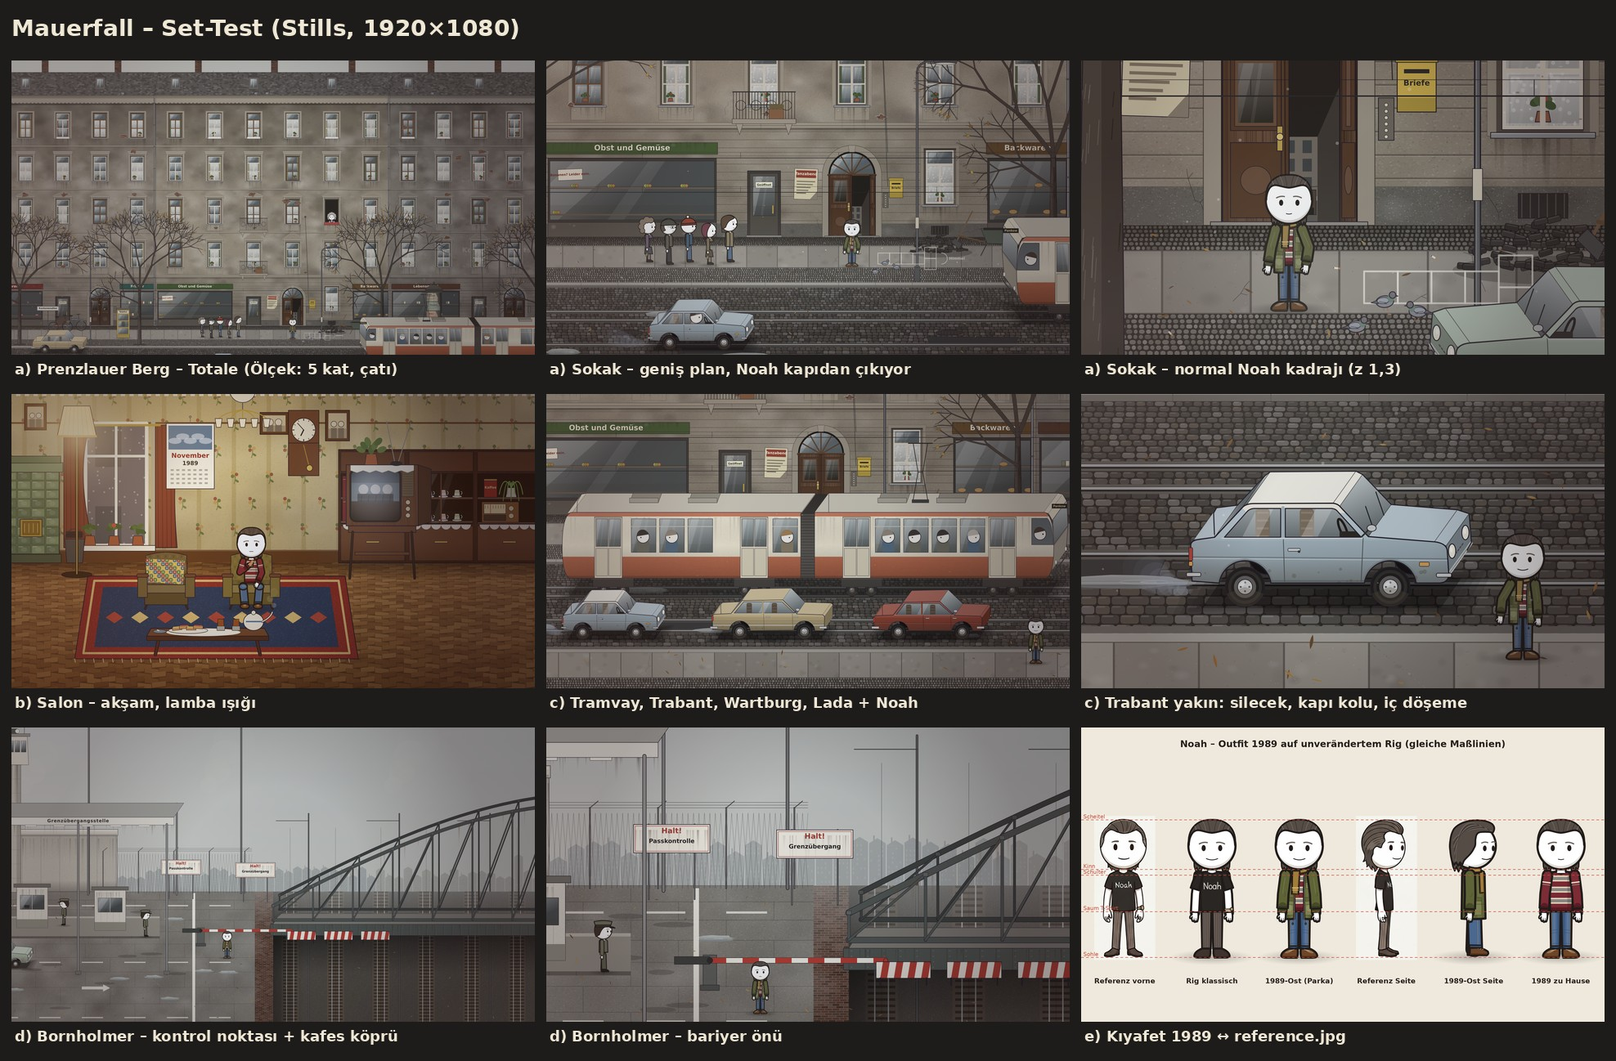
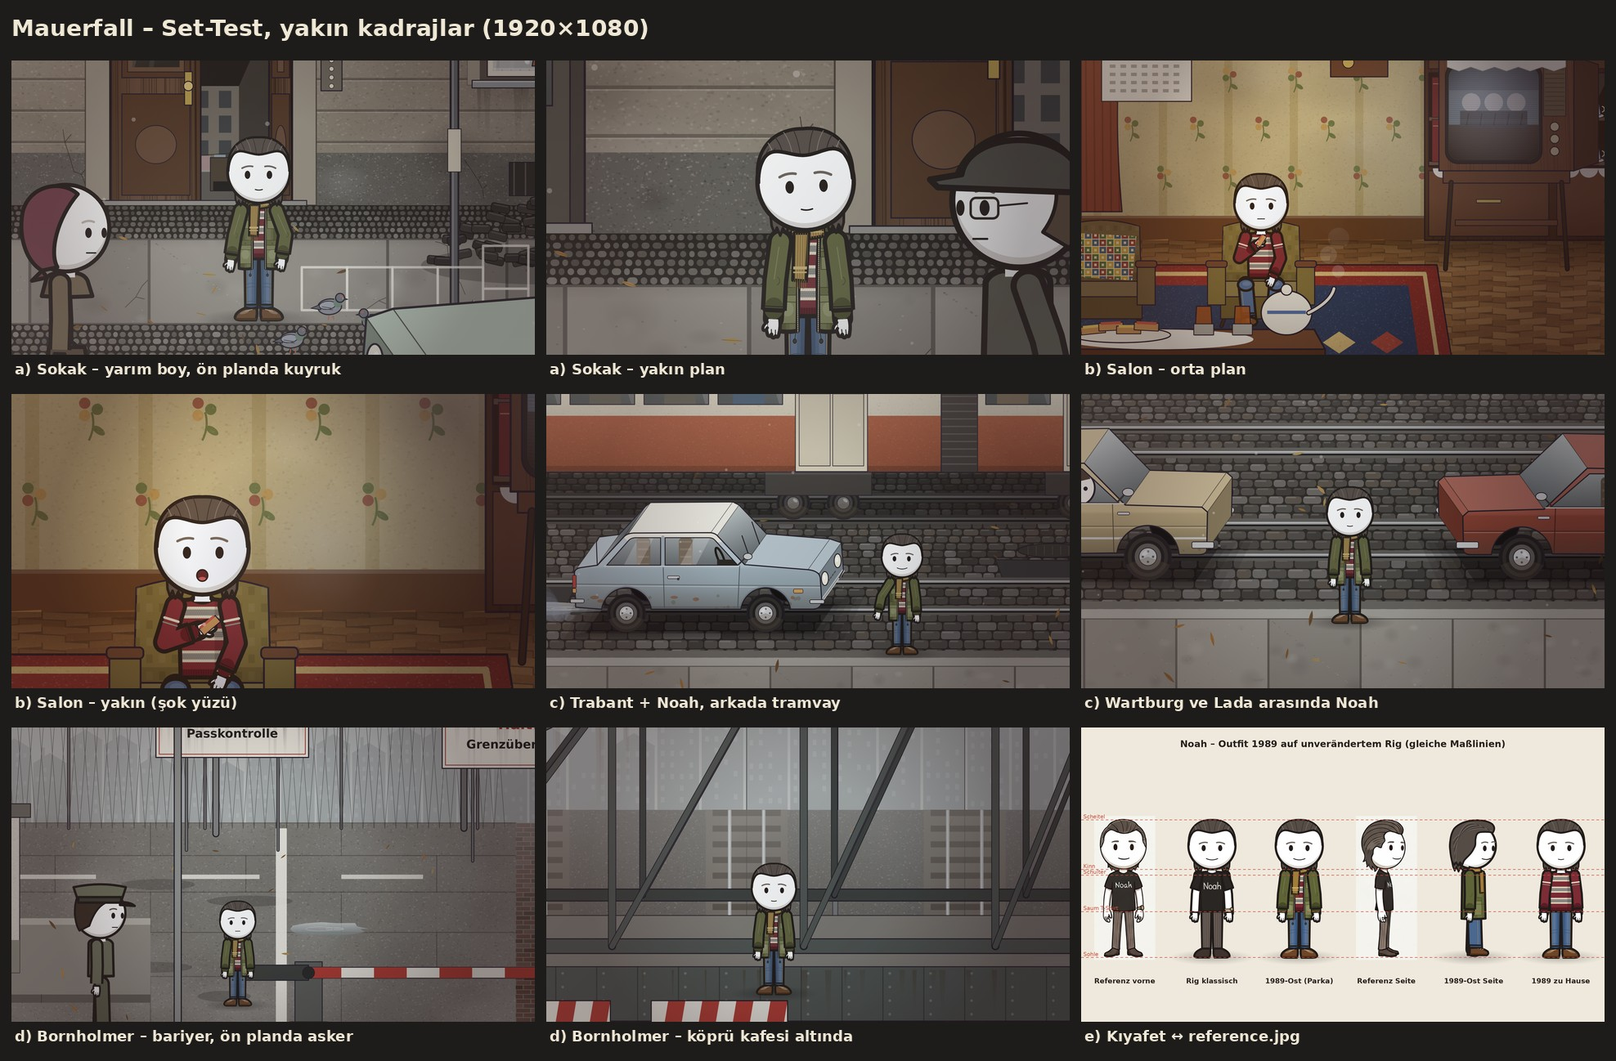
Mauerfall set test: closer framings, near-layer foreground occluders
Claude-Session: https://claude.ai/code/session_01MkQW4n55EtGz9x1MS3QuRe

diff --git a/films/mauerfall-set/film.html b/films/mauerfall-set/film.html
@@ -1796,6 +1796,9 @@ function bareTree(c, x, y, o = {}) {
   br(x, y - h, -Math.PI / 2 - .55, h * .45, tw * .55, 5); br(x, y - h, -Math.PI / 2 + .5, h * .48, tw * .55, 5); br(x, y - h * .92, -Math.PI / 2 + .05, h * .5, tw * .5, 5);
   if (o.low !== false) br(x, y - h * .75, -Math.PI / 2 - 1.1, h * .3, tw * .32, 3);
 }
+// NEAR LAYER: objects close to the camera — pan factor p (> 1 moves faster) and drawn sc times bigger.
+// Their ground line (y = 0 inside fn) sits on screen where world line groundY is. Good for cropped foreground occluders.
+function nearLayer(c, cam, p, sc, groundY, fn) { layerZ(c, cam, p, c => { const bx = cam.x * p, by = baseZ(cam, groundY, p); c.translate(bx, by); c.scale(sc, sc); c.translate(-bx, 0); fn(c); }); }
 
 // ---- mauerfall-lib/noah89.js ----
 // NOAH 1989 outfits on top of the unchanged rig (noah.js): head, hair, face, skeleton and limb lengths are NOT touched.
@@ -3278,90 +3281,84 @@ function tvPress(c, w, h, t) {
   c.fillStyle = 'rgba(255,255,255,.08)'; c.fillRect(0, (t * 40) % h, w, 10);
 }
 const sandwich = c => { c.save(); c.rotate(1.2); c.beginPath(); c.rect(-60, -30, 120, 46); fs(c, '#c9925a', 6); c.fillStyle = '#c9564a'; c.fillRect(-52, -38, 104, 14); circle(c, -20, -32, 10); c.fillStyle = '#e8a0a0'; c.fill(); c.restore(); };
+const NOAH_STREET = (c, x, y, o = {}) => { softShadow(c, x, y, 130, .4); drawNoah89(c, Object.assign({ x, y, k: .25, ink: 1.8 }, o)); };
+const GUARD = { hat: 'border', hatCol: '#6b7058', coat: '#6b7058', type: 'uniform', pants: '#5a5e4a', shoes: '#1e1c1a', hair: 'short' };
+function closeStreet(cam, t, o) {
+  const S = streetShot(cam, t, o);
+  S.screen = [c => { if (o.near) nearLayer(c, cam, o.near.p || 1.3, o.near.sc || 1.6, o.near.ground || 300, cc => o.near.fn(cc, t)); }, c => ostLight(c, cam, t, o)];
+  return S;
+}
 defineFilm({ shots: [
-  { name: 'a-street-wide', dur: 1, f(lt, T, t) {
-    return streetShot({ x: -250, y: -520, z: .45 }, 2.3, { doorOpen: .9,
-      noah: c => { softShadow(c, 108, -40, 130, .4); drawNoah89(c, { x: 108, y: -40, k: .25, ink: 1.8, arms: { l: { a: .25, b: -.1 }, r: { a: .35, b: -.5 } }, expr: { browUp: .5, look: -.6, mouth: 'soft' } }); },
-      vehicles: c => { trabi(c, -1150, { y: 640, col: '#a8bfcc', s: 1, moving: true, t: 2.3, driver: true }); tram(c, 3500, { y: 420, s: -1, t: 2.3, dest: 'Pankow', people: true }); },
-    });
+  // a) street — medium-full shot: Noah steps out of the open gate, queue woman cropped in the foreground, parked car edge
+  { name: 'a1-street-ms', dur: 1, f(lt, T, t) {
+    const cam = { x: 260, y: -275, z: 1.75 };
+    return closeStreet(cam, 2.3, { doorOpen: .9, noQueue: true,
+      noah: c => NOAH_STREET(c, 230, -40, { arms: { l: { a: .25, b: -.1 }, r: { a: .35, b: -.5 } }, expr: { browUp: .5, look: -.5, mouth: 'soft' } }),
+      near: { p: 1.3, sc: 1.55, ground: 210, fn: (c, t) => { drawFolkSide(c, Object.assign({ x: 60, y: 0, s: 1, expr: { mouth: 'soft', look: .2 } }, QUEUE[3])); trabi(c, 920, { y: 120, col: '#b3cdb6', s: -1, dirt: true, rust: true }); } } });
   } },
-  { name: 'a3-street-establishing', dur: 1, f(lt, T, t) {
-    return streetShot({ x: -250, y: -2450, z: .2 }, 2.3, { doorOpen: .9,
-      noah: c => { softShadow(c, 108, -40, 130, .4); drawNoah89(c, { x: 108, y: -40, k: .25, ink: 1.8, expr: { browUp: .5, mouth: 'soft' } }); },
-      vehicles: c => { trabi(c, -1150, { y: 640, col: '#a8bfcc', s: 1, moving: true, t: 2.3, driver: true }); wartburg(c, -4200, { y: 220, col: '#c4ad78' }); trabi(c, 3300, { y: 220, col: '#b3cdb6', s: -1 }); tram(c, 3500, { y: 420, s: -1, t: 2.3, dest: 'Pankow', people: true }); },
-    });
+  // a) street — medium close-up: curiosity, shop window + poster behind
+  { name: 'a2-street-mcu', dur: 1, f(lt, T, t) {
+    const cam = { x: -170, y: -315, z: 2.7 };
+    return closeStreet(cam, 2.6, { doorOpen: .9, noQueue: true,
+      noah: c => NOAH_STREET(c, -170, -40, { expr: { browUp: .6, look: .7, mouth: 'soft' }, tilt: -.05 }),
+      near: { p: 1.25, sc: 1.4, ground: 120, fn: (c, t) => { drawFolkSide(c, Object.assign({ x: -10, y: 0, s: -1, walk: 1.1, expr: { mouth: 'flat' } }, QUEUE[1])); } } });
   } },
-  { name: 'a2-street-noah', dur: 1, f(lt, T, t) {
-    return streetShot({ x: 260, y: -330, z: 1.3 }, 2.6, { doorOpen: .9, front: { p: 1.35, base: 250, trees: [-330], car: { x: 1060, col: '#b3cdb6', s: -1 } },
-      noah: c => { softShadow(c, 108, -40, 130, .4); drawNoah89(c, { x: 108, y: -40, k: .25, ink: 1.8, arms: { l: { a: .25, b: -.1 }, r: { a: .35, b: -.5 } }, expr: { browUp: .5, look: .6, mouth: 'soft' } }); },
-    });
-  } },
-  { name: 'b-salon', dur: 1, f(lt, T, t) {
-    const cam = { x: 260, y: -330, z: .8 };
-    return { set: (c, cm, tt) => ostFlat(c, cm, tt, { tod: 'evening' }), cam, vignette: .35,
+  // b) living room — Noah in the armchair, TV right, coffee table big in the foreground
+  { name: 'b1-salon-ms', dur: 1, f(lt, T, t) {
+    const cam = { x: 360, y: -310, z: 1.5 };
+    return { set: (c, cm, tt) => ostFlat(c, cm, tt, { tod: 'evening' }), cam, vignette: .4,
       behind: [c => {
         flatProps(c, 3.2, { tvImg: tvPress });
         sessel(c, -230, -20, { col: '#6a5a3a', part: 'back', blanket: true }); sessel(c, -230, -20, { col: '#6a5a3a', part: 'front' });
-        sessel(c, 160, -20, { col: '#7a6a3a', part: 'back' });
-        softShadow(c, 160, -20, 160, .35);
+        sessel(c, 160, -20, { col: '#7a6a3a', part: 'back' }); softShadow(c, 160, -20, 160, .35);
         drawNoah89(c, { x: 160, y: -20, k: .25, ink: 1.8, outfit: '1989-home', sit: true, seatH: 370, arms: { l: { a: .3, b: -2.5 }, r: { a: .2, b: -.6 } }, hold: { l: sandwich }, expr: { look: .8, browUp: .3, mouth: 'flat' } });
         sessel(c, 160, -20, { col: '#7a6a3a', part: 'front' });
-        coffeeTable(c, -40, 190, 3.2);
+      }],
+      screen: [c => nearLayer(c, cam, 1.2, 1.35, 150, cc => coffeeTable(cc, 120, 0, 3.2)), c => flatLight(c, cam, t)] };
+  } },
+  { name: 'b2-salon-cu', dur: 1, f(lt, T, t) {
+    const cam = { x: 260, y: -330, z: 2.6 };
+    return { set: (c, cm, tt) => ostFlat(c, cm, tt, { tod: 'evening' }), cam, vignette: .45,
+      behind: [c => {
+        flatProps(c, 3.2, { tvImg: tvPress });
+        sessel(c, 160, -20, { col: '#7a6a3a', part: 'back' });
+        drawNoah89(c, { x: 160, y: -20, k: .25, ink: 1.8, outfit: '1989-home', sit: true, seatH: 370, arms: { l: { a: .3, b: -2.2 }, r: { a: .2, b: -.6 } }, hold: { l: sandwich }, expr: { look: .9, lid: 0, browUp: 1, mouth: 'o' } });
+        sessel(c, 160, -20, { col: '#7a6a3a', part: 'front' });
+        bloom(c, 330, -330, 260, '170,200,240', .25);
       }],
       screen: [c => flatLight(c, cam, t)] };
   } },
-  { name: 'c-vehicles', dur: 1, f(lt, T, t) {
-    const cam = { x: 0, y: -60, z: .44 };
+  // c) Noah next to a Trabant (scale), tram passing behind
+  { name: 'c1-trabi-noah', dur: 1, f(lt, T, t) {
+    const cam = { x: 120, y: 470, z: 1.15 };
     return streetShot(cam, 4.5, { noQueue: true,
       vehicles: c => {
-        tram(c, 0, { y: 400, s: 1, t: 4.5, dest: 'Pankow', people: true });
-        trabi(c, -1650, { y: 760, col: '#a8bfcc', roof: '#ece8dc', s: 1, idle: true, t: 4.5 });
-        wartburg(c, -330, { y: 760, col: '#c4ad78', s: 1 });
-        lada(c, 1000, { y: 760, col: '#a8402e', s: 1 });
-        softShadow(c, 1900, 960, 130, .4);
-        drawNoah89(c, { x: 1900, y: 960, k: .25, ink: 1.8, expr: { look: -.8, browUp: .2, mouth: 'smile' } });
+        tram(c, 600, { y: 400, s: -1, t: 4.5, dest: 'Pankow', people: true });
+        trabi(c, -230, { y: 760, col: '#a8bfcc', roof: '#ece8dc', s: 1, idle: true, t: 4.5, rust: true });
+        NOAH_STREET(c, 420, 830, { arms: { l: { a: .55, b: -.35 } }, expr: { look: -.8, browUp: .2, mouth: 'smile' } });
       } });
   } },
-  { name: 'c2-trabi-close', dur: 1, f(lt, T, t) {
-    const cam = { x: -80, y: 560, z: 1.2 };
+  { name: 'c2-wartburg-lada', dur: 1, f(lt, T, t) {
+    const cam = { x: 210, y: 650, z: 1.3 };
     return streetShot(cam, 5.5, { noQueue: true,
       vehicles: c => {
-        trabi(c, -150, { y: 760, col: '#a8bfcc', roof: '#ece8dc', s: 1, idle: true, t: 5.5, driver: false });
-        softShadow(c, 470, 920, 130, .4);
-        drawNoah89(c, { x: 470, y: 920, k: .25, ink: 1.8, arms: { l: { a: .5, b: -.4 } }, expr: { look: -.9, browUp: .4, mouth: 'smile' } });
+        wartburg(c, -640, { y: 760, col: '#c4ad78', s: 1, driver: true });
+        lada(c, 1000, { y: 760, col: '#a8402e', s: -1 });
+        NOAH_STREET(c, 230, 880, { expr: { look: .8, browUp: .3, mouth: 'soft' } });
       } });
   } },
-  { name: 'd-bornholmer', dur: 1, f(lt, T, t) {
-    const cam = { x: 900, y: -760, z: .26 }, o = { tod: 'day' };
-    return { set: (c, cm, tt) => bornholmer(c, cm, tt, o), cam, vignette: .25,
-      behind: [c => {
-        bornProps(c, 6.5, o);
-        for (const [gx, gy, s] of [[-2050, -40, -1], [-900, 120, 1]]) { softShadow(c, gx, gy, 120, .35); drawFolkSide(c, { x: gx, y: gy, s, hat: 'border', hatCol: '#6b7058', coat: '#6b7058', type: 'uniform', pants: '#5a5e4a', shoes: '#1e1c1a', hair: 'short', expr: { mouth: 'flat' } }); }
-        softShadow(c, 250, 420, 130, .4); drawNoah89(c, { x: 250, y: 420, k: .25, ink: 1.8, expr: { look: .7, browUp: .4, mouth: 'flat' } });
-        bornFront(c, 6.5, o);
-      }],
-      screen: [c => bornLight(c, cam, t, o)] };
+  // d) Bornholmer — at the barrier with a guard; on the bridge under the truss
+  { name: 'd1-barrier', dur: 1, f(lt, T, t) {
+    const cam = { x: -250, y: -330, z: 1.0 }, o = { tod: 'day', cars: false };
+    return { set: (c, cm, tt) => bornholmer(c, cm, tt, o), cam, vignette: .3,
+      behind: [c => { bornProps(c, 6.5, o); NOAH_STREET(c, -380, 150, { expr: { look: -.6, browUp: .4, mouth: 'flat' } }); bornFront(c, 6.5, o); }],
+      screen: [c => nearLayer(c, cam, 1.3, 1.45, 260, cc => drawFolkSide(cc, Object.assign({ x: -760, y: 0, s: 1, expr: { mouth: 'flat' } }, GUARD))), c => bornLight(c, cam, t, o)] };
   } },
-  { name: 'd2-bornholmer-near', dur: 1, f(lt, T, t) {
-    const cam = { x: 600, y: -600, z: .5 }, o = { tod: 'day' };
-    return { set: (c, cm, tt) => bornholmer(c, cm, tt, o), cam, vignette: .25,
-      behind: [c => {
-        bornProps(c, 7.5, o);
-        softShadow(c, -900, 120, 120, .35); drawFolkSide(c, { x: -900, y: 120, s: 1, hat: 'border', hatCol: '#6b7058', coat: '#6b7058', type: 'uniform', pants: '#5a5e4a', shoes: '#1e1c1a', hair: 'short', expr: { mouth: 'flat' } });
-        softShadow(c, 250, 420, 130, .4); drawNoah89(c, { x: 250, y: 420, k: .25, ink: 1.8, expr: { look: .7, browUp: .4, mouth: 'flat' } });
-        bornFront(c, 7.5, o);
-      }],
+  { name: 'd2-bridge', dur: 1, f(lt, T, t) {
+    const cam = { x: 2600, y: -330, z: 1.25 }, o = { tod: 'day', cars: false };
+    return { set: (c, cm, tt) => bornholmer(c, cm, tt, o), cam, vignette: .3,
+      behind: [c => { bornProps(c, 7.5, o); NOAH_STREET(c, 2500, 20, { expr: { look: .5, browUp: .5, mouth: 'soft' } }); }],
       screen: [c => bornLight(c, cam, t, o)] };
-  } },
-  { name: 'e-outfit', dur: 1, f(lt, T, t) {
-    const cam = { x: 0, y: -230, z: 1.32 };
-    return { set: (c) => { c.setTransform(1, 0, 0, 1, 0, 0); c.fillStyle = '#efe9dd'; c.fillRect(0, 0, W, H); return { base: '#efe9dd' }; }, cam, vignette: 0,
-      behind: [c => {
-        softShadow(c, -560, 0, 120, .25); drawNoah(c, { x: -560, k: .25, ink: 1.8, expr: { mouth: 'smile' } });
-        softShadow(c, -200, 0, 120, .25); drawNoah89(c, { x: -200, k: .25, ink: 1.8, expr: { mouth: 'smile' } });
-        softShadow(c, 170, 0, 120, .25); drawNoah89Side(c, { x: 170, k: .25, ink: 1.8, expr: { mouth: 'smile' } });
-        softShadow(c, 520, 0, 120, .25); drawNoah89(c, { x: 520, k: .25, ink: 1.8, outfit: '1989-home', expr: { mouth: 'soft' } });
-      }] };
   } },
 ] });
 

diff --git a/films/mauerfall-set/scenes.js b/films/mauerfall-set/scenes.js
@@ -29,89 +29,83 @@ function tvPress(c, w, h, t) {
   c.fillStyle = 'rgba(255,255,255,.08)'; c.fillRect(0, (t * 40) % h, w, 10);
 }
 const sandwich = c => { c.save(); c.rotate(1.2); c.beginPath(); c.rect(-60, -30, 120, 46); fs(c, '#c9925a', 6); c.fillStyle = '#c9564a'; c.fillRect(-52, -38, 104, 14); circle(c, -20, -32, 10); c.fillStyle = '#e8a0a0'; c.fill(); c.restore(); };
+const NOAH_STREET = (c, x, y, o = {}) => { softShadow(c, x, y, 130, .4); drawNoah89(c, Object.assign({ x, y, k: .25, ink: 1.8 }, o)); };
+const GUARD = { hat: 'border', hatCol: '#6b7058', coat: '#6b7058', type: 'uniform', pants: '#5a5e4a', shoes: '#1e1c1a', hair: 'short' };
+function closeStreet(cam, t, o) {
+  const S = streetShot(cam, t, o);
+  S.screen = [c => { if (o.near) nearLayer(c, cam, o.near.p || 1.3, o.near.sc || 1.6, o.near.ground || 300, cc => o.near.fn(cc, t)); }, c => ostLight(c, cam, t, o)];
+  return S;
+}
 defineFilm({ shots: [
-  { name: 'a-street-wide', dur: 1, f(lt, T, t) {
-    return streetShot({ x: -250, y: -520, z: .45 }, 2.3, { doorOpen: .9,
-      noah: c => { softShadow(c, 108, -40, 130, .4); drawNoah89(c, { x: 108, y: -40, k: .25, ink: 1.8, arms: { l: { a: .25, b: -.1 }, r: { a: .35, b: -.5 } }, expr: { browUp: .5, look: -.6, mouth: 'soft' } }); },
-      vehicles: c => { trabi(c, -1150, { y: 640, col: '#a8bfcc', s: 1, moving: true, t: 2.3, driver: true }); tram(c, 3500, { y: 420, s: -1, t: 2.3, dest: 'Pankow', people: true }); },
-    });
+  // a) street — medium-full shot: Noah steps out of the open gate, queue woman cropped in the foreground, parked car edge
+  { name: 'a1-street-ms', dur: 1, f(lt, T, t) {
+    const cam = { x: 260, y: -275, z: 1.75 };
+    return closeStreet(cam, 2.3, { doorOpen: .9, noQueue: true,
+      noah: c => NOAH_STREET(c, 230, -40, { arms: { l: { a: .25, b: -.1 }, r: { a: .35, b: -.5 } }, expr: { browUp: .5, look: -.5, mouth: 'soft' } }),
+      near: { p: 1.3, sc: 1.55, ground: 210, fn: (c, t) => { drawFolkSide(c, Object.assign({ x: 60, y: 0, s: 1, expr: { mouth: 'soft', look: .2 } }, QUEUE[3])); trabi(c, 920, { y: 120, col: '#b3cdb6', s: -1, dirt: true, rust: true }); } } });
   } },
-  { name: 'a3-street-establishing', dur: 1, f(lt, T, t) {
-    return streetShot({ x: -250, y: -2450, z: .2 }, 2.3, { doorOpen: .9,
-      noah: c => { softShadow(c, 108, -40, 130, .4); drawNoah89(c, { x: 108, y: -40, k: .25, ink: 1.8, expr: { browUp: .5, mouth: 'soft' } }); },
-      vehicles: c => { trabi(c, -1150, { y: 640, col: '#a8bfcc', s: 1, moving: true, t: 2.3, driver: true }); wartburg(c, -4200, { y: 220, col: '#c4ad78' }); trabi(c, 3300, { y: 220, col: '#b3cdb6', s: -1 }); tram(c, 3500, { y: 420, s: -1, t: 2.3, dest: 'Pankow', people: true }); },
-    });
+  // a) street — medium close-up: curiosity, shop window + poster behind
+  { name: 'a2-street-mcu', dur: 1, f(lt, T, t) {
+    const cam = { x: -170, y: -315, z: 2.7 };
+    return closeStreet(cam, 2.6, { doorOpen: .9, noQueue: true,
+      noah: c => NOAH_STREET(c, -170, -40, { expr: { browUp: .6, look: .7, mouth: 'soft' }, tilt: -.05 }),
+      near: { p: 1.25, sc: 1.4, ground: 120, fn: (c, t) => { drawFolkSide(c, Object.assign({ x: -10, y: 0, s: -1, walk: 1.1, expr: { mouth: 'flat' } }, QUEUE[1])); } } });
   } },
-  { name: 'a2-street-noah', dur: 1, f(lt, T, t) {
-    return streetShot({ x: 260, y: -330, z: 1.3 }, 2.6, { doorOpen: .9, front: { p: 1.35, base: 250, trees: [-330], car: { x: 1060, col: '#b3cdb6', s: -1 } },
-      noah: c => { softShadow(c, 108, -40, 130, .4); drawNoah89(c, { x: 108, y: -40, k: .25, ink: 1.8, arms: { l: { a: .25, b: -.1 }, r: { a: .35, b: -.5 } }, expr: { browUp: .5, look: .6, mouth: 'soft' } }); },
-    });
-  } },
-  { name: 'b-salon', dur: 1, f(lt, T, t) {
-    const cam = { x: 260, y: -330, z: .8 };
-    return { set: (c, cm, tt) => ostFlat(c, cm, tt, { tod: 'evening' }), cam, vignette: .35,
+  // b) living room — Noah in the armchair, TV right, coffee table big in the foreground
+  { name: 'b1-salon-ms', dur: 1, f(lt, T, t) {
+    const cam = { x: 360, y: -310, z: 1.5 };
+    return { set: (c, cm, tt) => ostFlat(c, cm, tt, { tod: 'evening' }), cam, vignette: .4,
       behind: [c => {
         flatProps(c, 3.2, { tvImg: tvPress });
         sessel(c, -230, -20, { col: '#6a5a3a', part: 'back', blanket: true }); sessel(c, -230, -20, { col: '#6a5a3a', part: 'front' });
-        sessel(c, 160, -20, { col: '#7a6a3a', part: 'back' });
-        softShadow(c, 160, -20, 160, .35);
+        sessel(c, 160, -20, { col: '#7a6a3a', part: 'back' }); softShadow(c, 160, -20, 160, .35);
         drawNoah89(c, { x: 160, y: -20, k: .25, ink: 1.8, outfit: '1989-home', sit: true, seatH: 370, arms: { l: { a: .3, b: -2.5 }, r: { a: .2, b: -.6 } }, hold: { l: sandwich }, expr: { look: .8, browUp: .3, mouth: 'flat' } });
         sessel(c, 160, -20, { col: '#7a6a3a', part: 'front' });
-        coffeeTable(c, -40, 190, 3.2);
+      }],
+      screen: [c => nearLayer(c, cam, 1.2, 1.35, 150, cc => coffeeTable(cc, 120, 0, 3.2)), c => flatLight(c, cam, t)] };
+  } },
+  { name: 'b2-salon-cu', dur: 1, f(lt, T, t) {
+    const cam = { x: 260, y: -330, z: 2.6 };
+    return { set: (c, cm, tt) => ostFlat(c, cm, tt, { tod: 'evening' }), cam, vignette: .45,
+      behind: [c => {
+        flatProps(c, 3.2, { tvImg: tvPress });
+        sessel(c, 160, -20, { col: '#7a6a3a', part: 'back' });
+        drawNoah89(c, { x: 160, y: -20, k: .25, ink: 1.8, outfit: '1989-home', sit: true, seatH: 370, arms: { l: { a: .3, b: -2.2 }, r: { a: .2, b: -.6 } }, hold: { l: sandwich }, expr: { look: .9, lid: 0, browUp: 1, mouth: 'o' } });
+        sessel(c, 160, -20, { col: '#7a6a3a', part: 'front' });
+        bloom(c, 330, -330, 260, '170,200,240', .25);
       }],
       screen: [c => flatLight(c, cam, t)] };
   } },
-  { name: 'c-vehicles', dur: 1, f(lt, T, t) {
-    const cam = { x: 0, y: -60, z: .44 };
+  // c) Noah next to a Trabant (scale), tram passing behind
+  { name: 'c1-trabi-noah', dur: 1, f(lt, T, t) {
+    const cam = { x: 120, y: 470, z: 1.15 };
     return streetShot(cam, 4.5, { noQueue: true,
       vehicles: c => {
-        tram(c, 0, { y: 400, s: 1, t: 4.5, dest: 'Pankow', people: true });
-        trabi(c, -1650, { y: 760, col: '#a8bfcc', roof: '#ece8dc', s: 1, idle: true, t: 4.5 });
-        wartburg(c, -330, { y: 760, col: '#c4ad78', s: 1 });
-        lada(c, 1000, { y: 760, col: '#a8402e', s: 1 });
-        softShadow(c, 1900, 960, 130, .4);
-        drawNoah89(c, { x: 1900, y: 960, k: .25, ink: 1.8, expr: { look: -.8, browUp: .2, mouth: 'smile' } });
+        tram(c, 600, { y: 400, s: -1, t: 4.5, dest: 'Pankow', people: true });
+        trabi(c, -230, { y: 760, col: '#a8bfcc', roof: '#ece8dc', s: 1, idle: true, t: 4.5, rust: true });
+        NOAH_STREET(c, 420, 830, { arms: { l: { a: .55, b: -.35 } }, expr: { look: -.8, browUp: .2, mouth: 'smile' } });
       } });
   } },
-  { name: 'c2-trabi-close', dur: 1, f(lt, T, t) {
-    const cam = { x: -80, y: 560, z: 1.2 };
+  { name: 'c2-wartburg-lada', dur: 1, f(lt, T, t) {
+    const cam = { x: 210, y: 650, z: 1.3 };
     return streetShot(cam, 5.5, { noQueue: true,
       vehicles: c => {
-        trabi(c, -150, { y: 760, col: '#a8bfcc', roof: '#ece8dc', s: 1, idle: true, t: 5.5, driver: false });
-        softShadow(c, 470, 920, 130, .4);
-        drawNoah89(c, { x: 470, y: 920, k: .25, ink: 1.8, arms: { l: { a: .5, b: -.4 } }, expr: { look: -.9, browUp: .4, mouth: 'smile' } });
+        wartburg(c, -640, { y: 760, col: '#c4ad78', s: 1, driver: true });
+        lada(c, 1000, { y: 760, col: '#a8402e', s: -1 });
+        NOAH_STREET(c, 230, 880, { expr: { look: .8, browUp: .3, mouth: 'soft' } });
       } });
   } },
-  { name: 'd-bornholmer', dur: 1, f(lt, T, t) {
-    const cam = { x: 900, y: -760, z: .26 }, o = { tod: 'day' };
-    return { set: (c, cm, tt) => bornholmer(c, cm, tt, o), cam, vignette: .25,
-      behind: [c => {
-        bornProps(c, 6.5, o);
-        for (const [gx, gy, s] of [[-2050, -40, -1], [-900, 120, 1]]) { softShadow(c, gx, gy, 120, .35); drawFolkSide(c, { x: gx, y: gy, s, hat: 'border', hatCol: '#6b7058', coat: '#6b7058', type: 'uniform', pants: '#5a5e4a', shoes: '#1e1c1a', hair: 'short', expr: { mouth: 'flat' } }); }
-        softShadow(c, 250, 420, 130, .4); drawNoah89(c, { x: 250, y: 420, k: .25, ink: 1.8, expr: { look: .7, browUp: .4, mouth: 'flat' } });
-        bornFront(c, 6.5, o);
-      }],
-      screen: [c => bornLight(c, cam, t, o)] };
+  // d) Bornholmer — at the barrier with a guard; on the bridge under the truss
+  { name: 'd1-barrier', dur: 1, f(lt, T, t) {
+    const cam = { x: -250, y: -330, z: 1.0 }, o = { tod: 'day', cars: false };
+    return { set: (c, cm, tt) => bornholmer(c, cm, tt, o), cam, vignette: .3,
+      behind: [c => { bornProps(c, 6.5, o); NOAH_STREET(c, -380, 150, { expr: { look: -.6, browUp: .4, mouth: 'flat' } }); bornFront(c, 6.5, o); }],
+      screen: [c => nearLayer(c, cam, 1.3, 1.45, 260, cc => drawFolkSide(cc, Object.assign({ x: -760, y: 0, s: 1, expr: { mouth: 'flat' } }, GUARD))), c => bornLight(c, cam, t, o)] };
   } },
-  { name: 'd2-bornholmer-near', dur: 1, f(lt, T, t) {
-    const cam = { x: 600, y: -600, z: .5 }, o = { tod: 'day' };
-    return { set: (c, cm, tt) => bornholmer(c, cm, tt, o), cam, vignette: .25,
-      behind: [c => {
-        bornProps(c, 7.5, o);
-        softShadow(c, -900, 120, 120, .35); drawFolkSide(c, { x: -900, y: 120, s: 1, hat: 'border', hatCol: '#6b7058', coat: '#6b7058', type: 'uniform', pants: '#5a5e4a', shoes: '#1e1c1a', hair: 'short', expr: { mouth: 'flat' } });
-        softShadow(c, 250, 420, 130, .4); drawNoah89(c, { x: 250, y: 420, k: .25, ink: 1.8, expr: { look: .7, browUp: .4, mouth: 'flat' } });
-        bornFront(c, 7.5, o);
-      }],
+  { name: 'd2-bridge', dur: 1, f(lt, T, t) {
+    const cam = { x: 2600, y: -330, z: 1.25 }, o = { tod: 'day', cars: false };
+    return { set: (c, cm, tt) => bornholmer(c, cm, tt, o), cam, vignette: .3,
+      behind: [c => { bornProps(c, 7.5, o); NOAH_STREET(c, 2500, 20, { expr: { look: .5, browUp: .5, mouth: 'soft' } }); }],
       screen: [c => bornLight(c, cam, t, o)] };
-  } },
-  { name: 'e-outfit', dur: 1, f(lt, T, t) {
-    const cam = { x: 0, y: -230, z: 1.32 };
-    return { set: (c) => { c.setTransform(1, 0, 0, 1, 0, 0); c.fillStyle = '#efe9dd'; c.fillRect(0, 0, W, H); return { base: '#efe9dd' }; }, cam, vignette: 0,
-      behind: [c => {
-        softShadow(c, -560, 0, 120, .25); drawNoah(c, { x: -560, k: .25, ink: 1.8, expr: { mouth: 'smile' } });
-        softShadow(c, -200, 0, 120, .25); drawNoah89(c, { x: -200, k: .25, ink: 1.8, expr: { mouth: 'smile' } });
-        softShadow(c, 170, 0, 120, .25); drawNoah89Side(c, { x: 170, k: .25, ink: 1.8, expr: { mouth: 'smile' } });
-        softShadow(c, 520, 0, 120, .25); drawNoah89(c, { x: 520, k: .25, ink: 1.8, outfit: '1989-home', expr: { mouth: 'soft' } });
-      }] };
   } },
 ] });

diff --git a/films/mauerfall-lib/tex.js b/films/mauerfall-lib/tex.js
@@ -228,3 +228,6 @@ function bareTree(c, x, y, o = {}) {
   br(x, y - h, -Math.PI / 2 - .55, h * .45, tw * .55, 5); br(x, y - h, -Math.PI / 2 + .5, h * .48, tw * .55, 5); br(x, y - h * .92, -Math.PI / 2 + .05, h * .5, tw * .5, 5);
   if (o.low !== false) br(x, y - h * .75, -Math.PI / 2 - 1.1, h * .3, tw * .32, 3);
 }
+// NEAR LAYER: objects close to the camera — pan factor p (> 1 moves faster) and drawn sc times bigger.
+// Their ground line (y = 0 inside fn) sits on screen where world line groundY is. Good for cropped foreground occluders.
+function nearLayer(c, cam, p, sc, groundY, fn) { layerZ(c, cam, p, c => { const bx = cam.x * p, by = baseZ(cam, groundY, p); c.translate(bx, by); c.scale(sc, sc); c.translate(-bx, 0); fn(c); }); }
